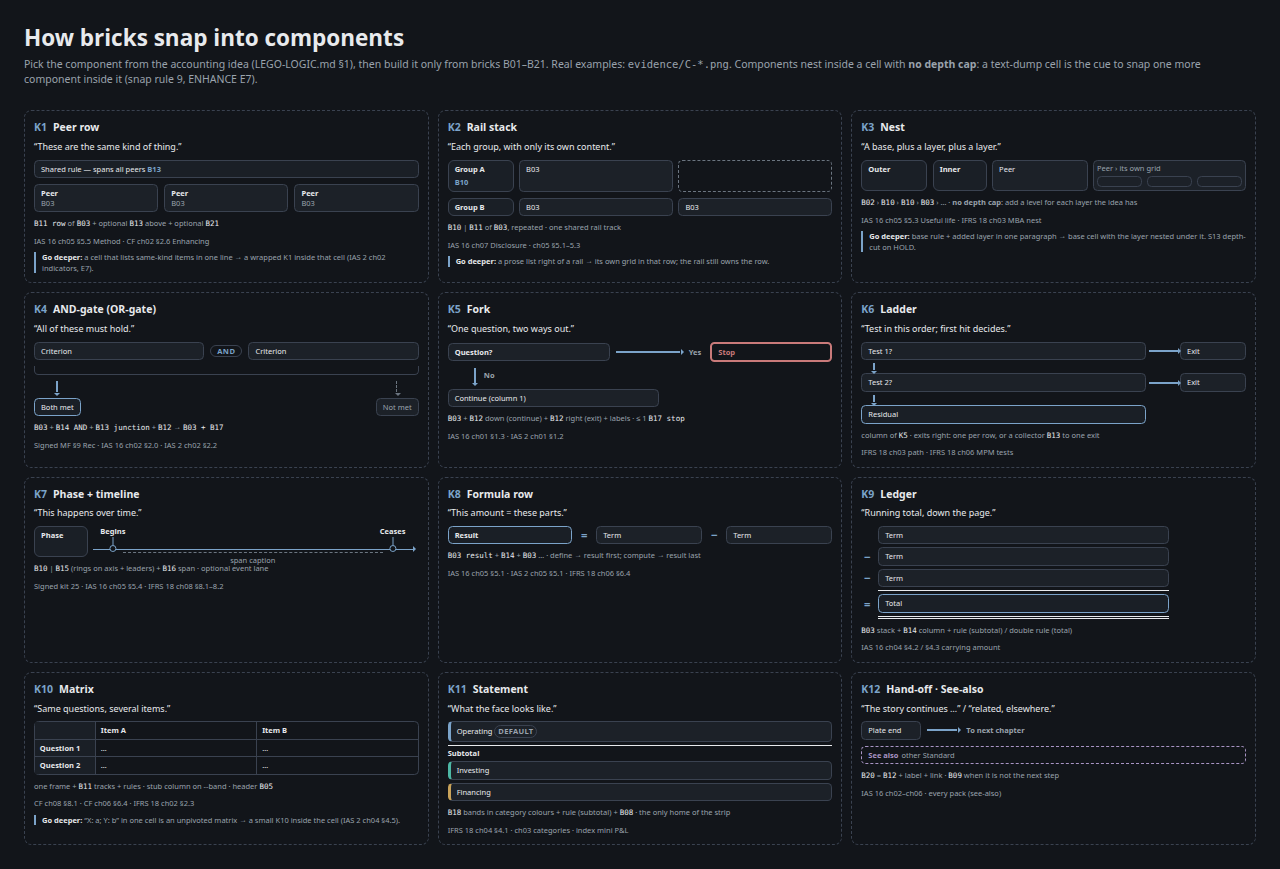
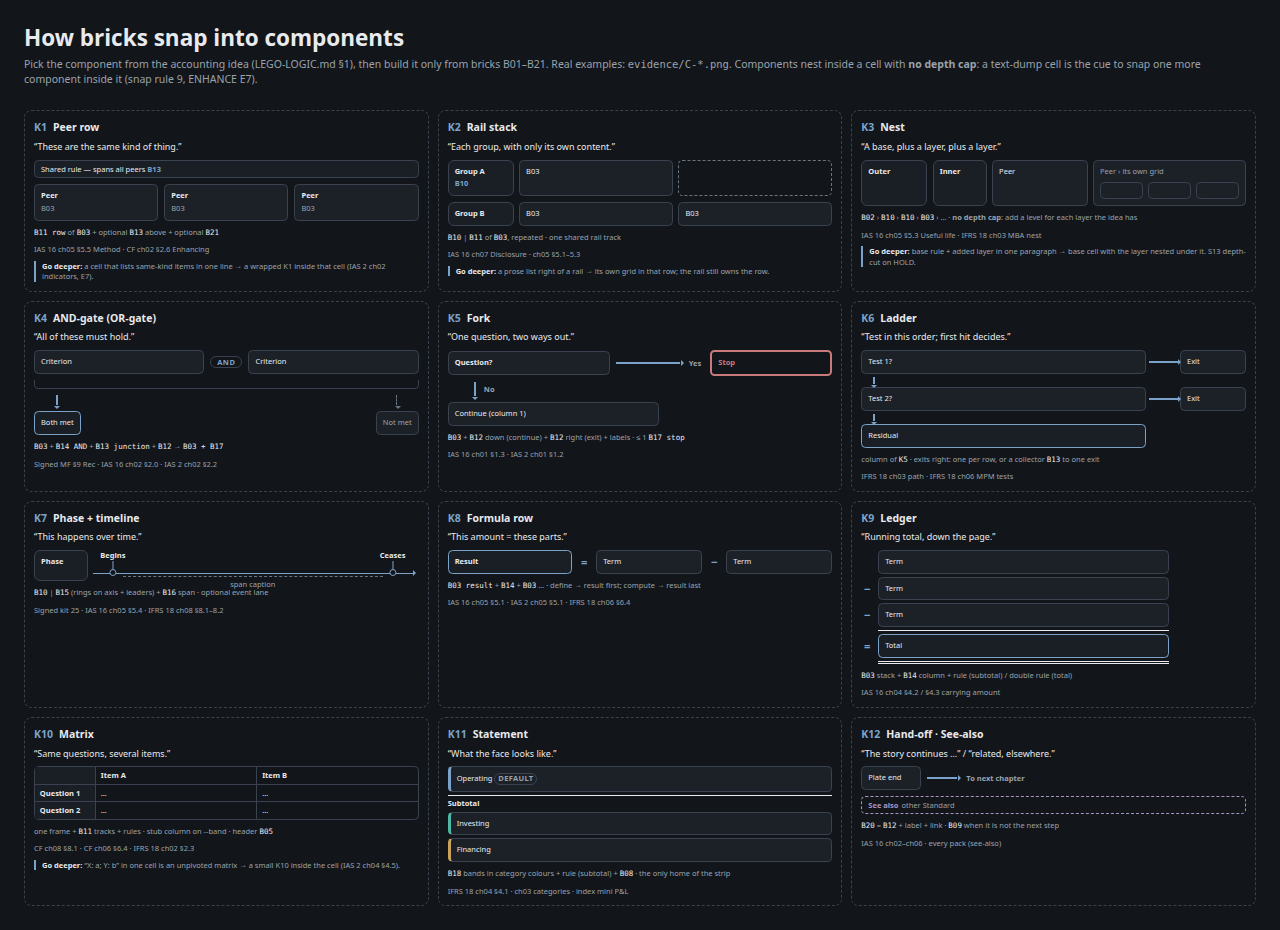
LEGO kit: sheet and combos nested cells get padding and gutters

diff --git a/design/row98-lego-kit/mocks/lego-sheet.html b/design/row98-lego-kit/mocks/lego-sheet.html
@@ -2,18 +2,22 @@
 <html lang="en"><head><meta charset="utf-8"><title>LEGO sheet — 21 bricks</title>
 <link rel="stylesheet" href="kit.css">
 <style>
-  .nest-c { padding: .25rem; background: var(--surface); min-height: 2.6rem; }
-  .nest-c.in { background: var(--band); min-height: 1.8rem; }
-  .nest-d { padding: 0; min-height: .9rem; background: var(--surface); }
-  .lv { display: block; font-size: var(--t3-fs); color: var(--muted); font-weight: 700; line-height: 1.2; }
+  .nest-c { padding: var(--space-2); background: var(--surface); min-height: 3rem; display: grid; gap: var(--space-2); align-content: start; }
+  .nest-c.in { background: var(--band); min-height: 2.4rem; }
+  .nest-c > .gridbox { gap: var(--space-cell); }
+  .nest-d { padding: var(--space-1); min-height: 1.4rem; background: var(--surface); }
+  .lv { display: block; font-size: var(--t3-fs); color: var(--muted); font-weight: 700; line-height: var(--t3-lh); }
   .deeper { border: var(--stroke-1) solid var(--accent); border-radius: var(--radius-m); padding: var(--space-3); margin-top: var(--space-3); }
   .deeper .slot-id b { color: var(--accent); margin-right: var(--space-2); }
   .dref { font-size: var(--t3-fs); color: var(--muted); font-weight: 400; margin-left: var(--space-2); }
-  .deeper-row { display: grid; grid-template-columns: minmax(0, 1fr) auto minmax(0, 1.5fr) minmax(0, .95fr); gap: var(--space-3); align-items: center; margin-top: var(--space-2); }
-  .pk { padding: .2rem .3rem; font-size: var(--t3-fs); font-weight: 700; line-height: 1.25; }
-  .dk { font-size: var(--t3-fs); color: var(--accent); font-weight: 700; margin: .35rem 0 0; }
-  .routes { border-left: var(--stroke-1) solid var(--line); padding-left: var(--space-3); }
-  .rt { margin: 0 0 .15rem; font-size: var(--t3-fs); }
+  .deeper-row { display: grid; grid-template-columns: minmax(0, 1fr) auto minmax(0, 1.75fr) minmax(0, .95fr); gap: var(--space-3); align-items: center; margin-top: var(--space-2); }
+  .deeper-row > .cell { padding: var(--space-3); display: grid; gap: var(--space-2); align-content: start; }
+  .peers5 { display: grid; grid-template-columns: repeat(5, 1fr); gap: var(--space-cell); }
+  .pk { padding: var(--space-2); font-size: var(--t3-fs); font-weight: 700; line-height: var(--t3-lh); }
+  .deeper-row .junction { margin: calc(-1 * var(--space-1)) 10% 0; }
+  .dk { font-size: var(--t3-fs); color: var(--accent); font-weight: 700; margin: var(--space-1) 0 0; }
+  .routes { border-left: var(--stroke-1) solid var(--line); padding: var(--space-1) 0 var(--space-1) var(--space-3); display: grid; gap: var(--space-1); }
+  .rt { margin: 0; font-size: var(--t3-fs); line-height: var(--t3-lh); }
   .rt b { color: var(--accent); }
 </style></head>
 <body>
@@ -65,10 +69,10 @@
     <div class="stage"><div class="gridbox" style="grid-template-columns:1fr 2.2fr 1fr;width:100%;align-items:stretch">
       <div class="cell nest-c"><span class="lv">L2</span></div>
       <div class="cell nest-c"><span class="lv">L2 cell › its own grid</span>
-        <div class="gridbox" style="grid-template-columns:1fr 1.6fr;margin-top:.25rem">
+        <div class="gridbox" style="grid-template-columns:1fr 1.8fr">
           <div class="cell nest-c in"><span class="lv">L3</span></div>
           <div class="cell nest-c in"><span class="lv">L3 › wrap row</span>
-            <div class="gridbox" style="grid-template-columns:repeat(3,1fr);gap:.2rem;margin-top:.2rem"><div class="cell nest-d"></div><div class="cell nest-d"></div><div class="cell nest-d"></div><div class="cell nest-d"></div><div class="cell nest-d"></div><div class="ghost" style="min-height:.9rem"></div></div></div>
+            <div class="gridbox" style="grid-template-columns:repeat(3,1fr)"><div class="cell nest-d"></div><div class="cell nest-d"></div><div class="cell nest-d"></div><div class="cell nest-d"></div><div class="cell nest-d"></div><div class="ghost" style="min-height:1.4rem"></div></div></div>
         </div></div>
       <div class="cell nest-c"><span class="lv">L2</span></div></div></div>
     <p class="slot-job">“Same row = peers; same column = steps.” Any cell can hold its own grid — <b>no depth cap</b>. Deeper grids reuse the L3 cell chrome.</p></div>
@@ -78,17 +82,17 @@
   <p class="slot-id"><b>Rule</b>Text dump = opportunity → go one layer deeper <span class="dref">owner heuristic 2026-10-19 · LEGO-LOGIC snap rule 9 · ENHANCE E7</span></p>
   <div class="deeper-row">
     <div class="cell"><span class="title-s">Indicators that control has passed</span>
-      <div class="note" style="margin-top:.2rem">Present obligation to pay; physical possession; legal title; risks and rewards of ownership; acceptance — evaluated together under IFRS 15, none individually determinative</div>
+      <div class="note">Present obligation to pay; physical possession; legal title; risks and rewards of ownership; acceptance — evaluated together under IFRS 15, none individually determinative</div>
       <p class="dk">Before · one cell, one run-on line</p></div>
     <div class="ah" style="width:2.5rem"></div>
     <div class="cell"><span class="title-s">Indicators that control has passed</span>
-      <div class="gridbox" style="grid-template-columns:repeat(5,1fr);gap:.25rem;margin-top:.3rem">
+      <div class="peers5">
         <div class="cell band pk">Present obligation to pay</div><div class="cell band pk">Physical possession</div><div class="cell band pk">Legal title</div><div class="cell band pk">Risks and rewards of ownership</div><div class="cell band pk">Acceptance</div></div>
-      <div class="junction" style="margin:0 10%"></div>
-      <div class="note" style="text-align:center;margin-top:.2rem">Evaluated together under IFRS 15, none individually determinative</div>
+      <div class="junction"></div>
+      <div class="note" style="text-align:center">Evaluated together under IFRS 15, none individually determinative</div>
       <p class="dk">After · same words, one layer deeper (K1 wrapped peers + B13 bracket)</p></div>
     <div class="routes">
-      <p class="dk" style="margin:0 0 .2rem">The dump is … → build inside the cell</p>
+      <p class="dk" style="margin:0">The dump is … → build inside the cell</p>
       <p class="rt">a list of same-kind items → <b>K1</b> wrapped peers</p>
       <p class="rt">items × same attribute → <b>K10</b> matrix</p>
       <p class="rt">several groups → <b>K2</b> rail stack</p>

diff --git a/design/row98-lego-kit/mocks/lego-combos.html b/design/row98-lego-kit/mocks/lego-combos.html
@@ -12,13 +12,14 @@
   .row { display: flex; gap: var(--space-2); align-items: stretch; }
   .row > .cell { flex: 1; }
   .col { display: grid; gap: var(--space-2); justify-items: start; }
-  .mini { padding: var(--space-1) var(--space-2); font-size: var(--t3-fs); }
+  .mini { padding: var(--space-2); font-size: var(--t3-fs); line-height: var(--t3-lh); }
   .id { font-size: var(--t3-fs); color: var(--accent); font-weight: 700; }
   .deep { margin: 0; font-size: var(--t3-fs); color: var(--muted); border-left: var(--stroke-2) solid var(--accent); padding-left: var(--space-2); }
   .deep b { color: var(--ink); }
-  .cell.in { padding: var(--space-1); display: grid; gap: var(--space-1); }
-  .cell.in > .gridbox { grid-template-columns: repeat(3, 1fr); }
-  .cell.in .cell { padding: .1rem .25rem; min-height: .9rem; }
+  .cell.in { padding: var(--space-2); display: grid; gap: var(--space-2); }
+  .cell.in > .gridbox { grid-template-columns: repeat(3, 1fr); gap: var(--space-cell); }
+  .cell.in .cell { padding: var(--space-1); min-height: 1.4rem; }
+  .row .cell.mini .note { margin-top: var(--space-1); }
 </style></head>
 <body>
 <h1 class="sheet-h">How bricks snap into components</h1>
